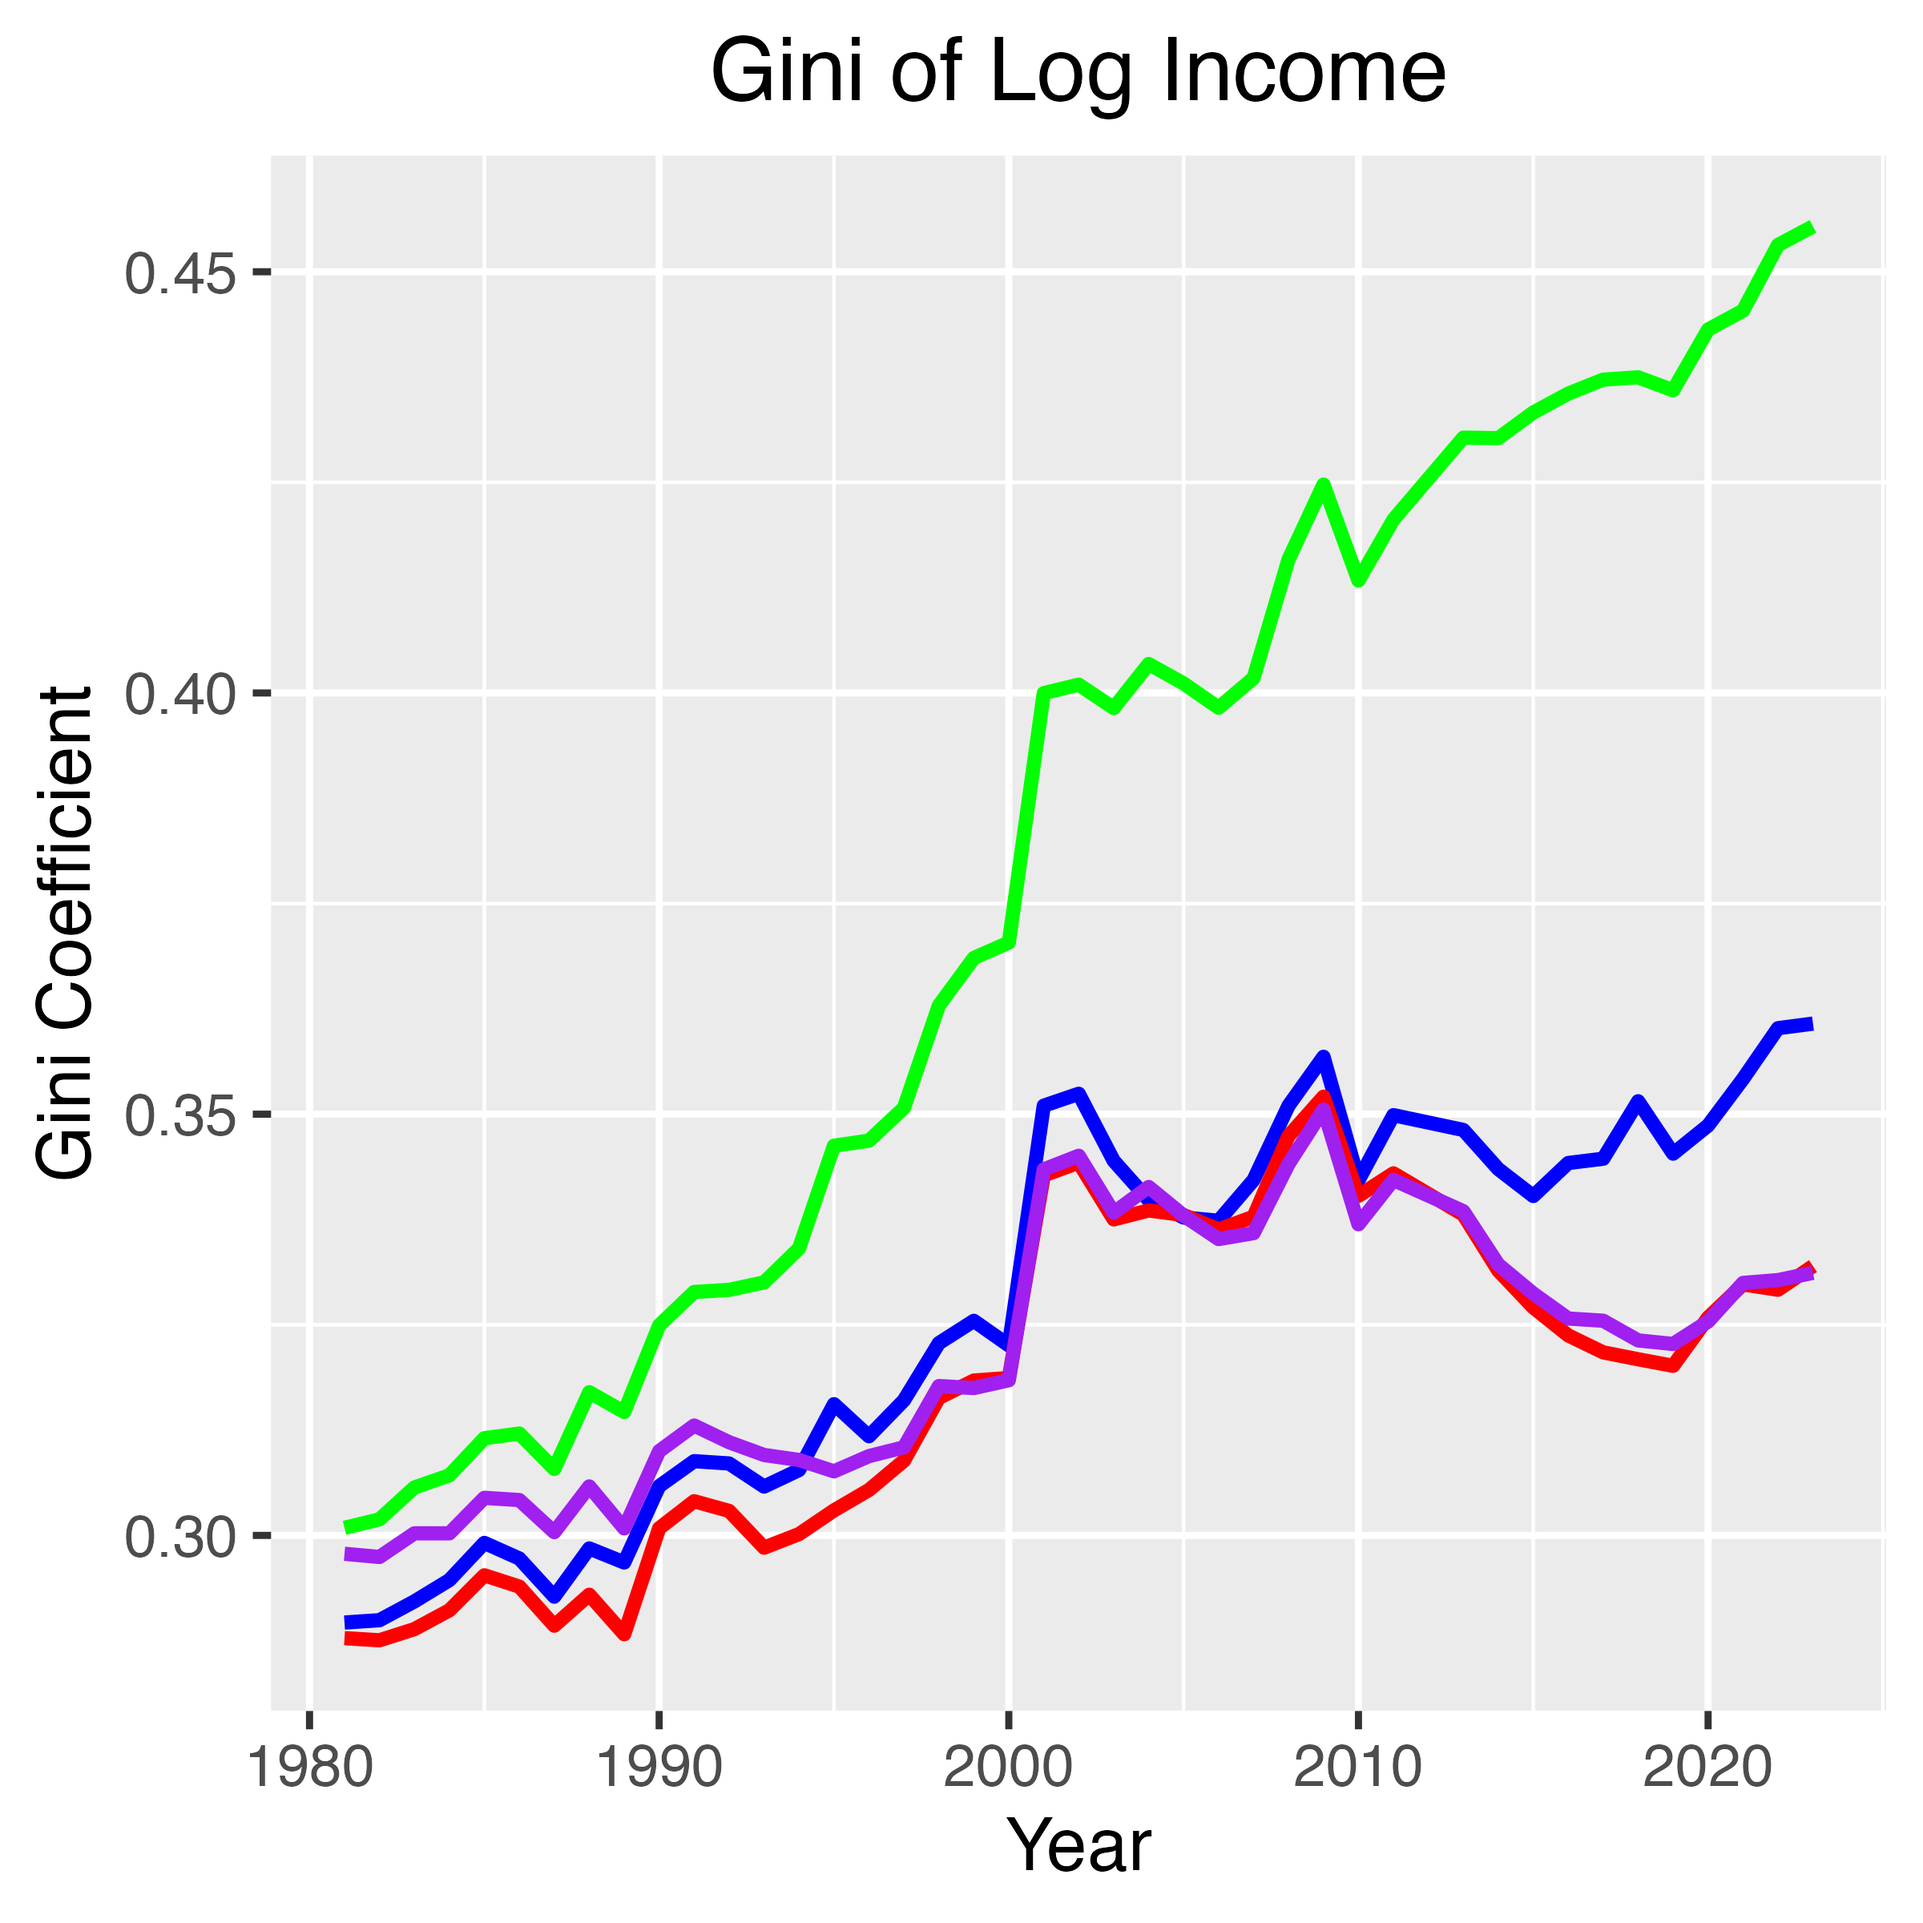
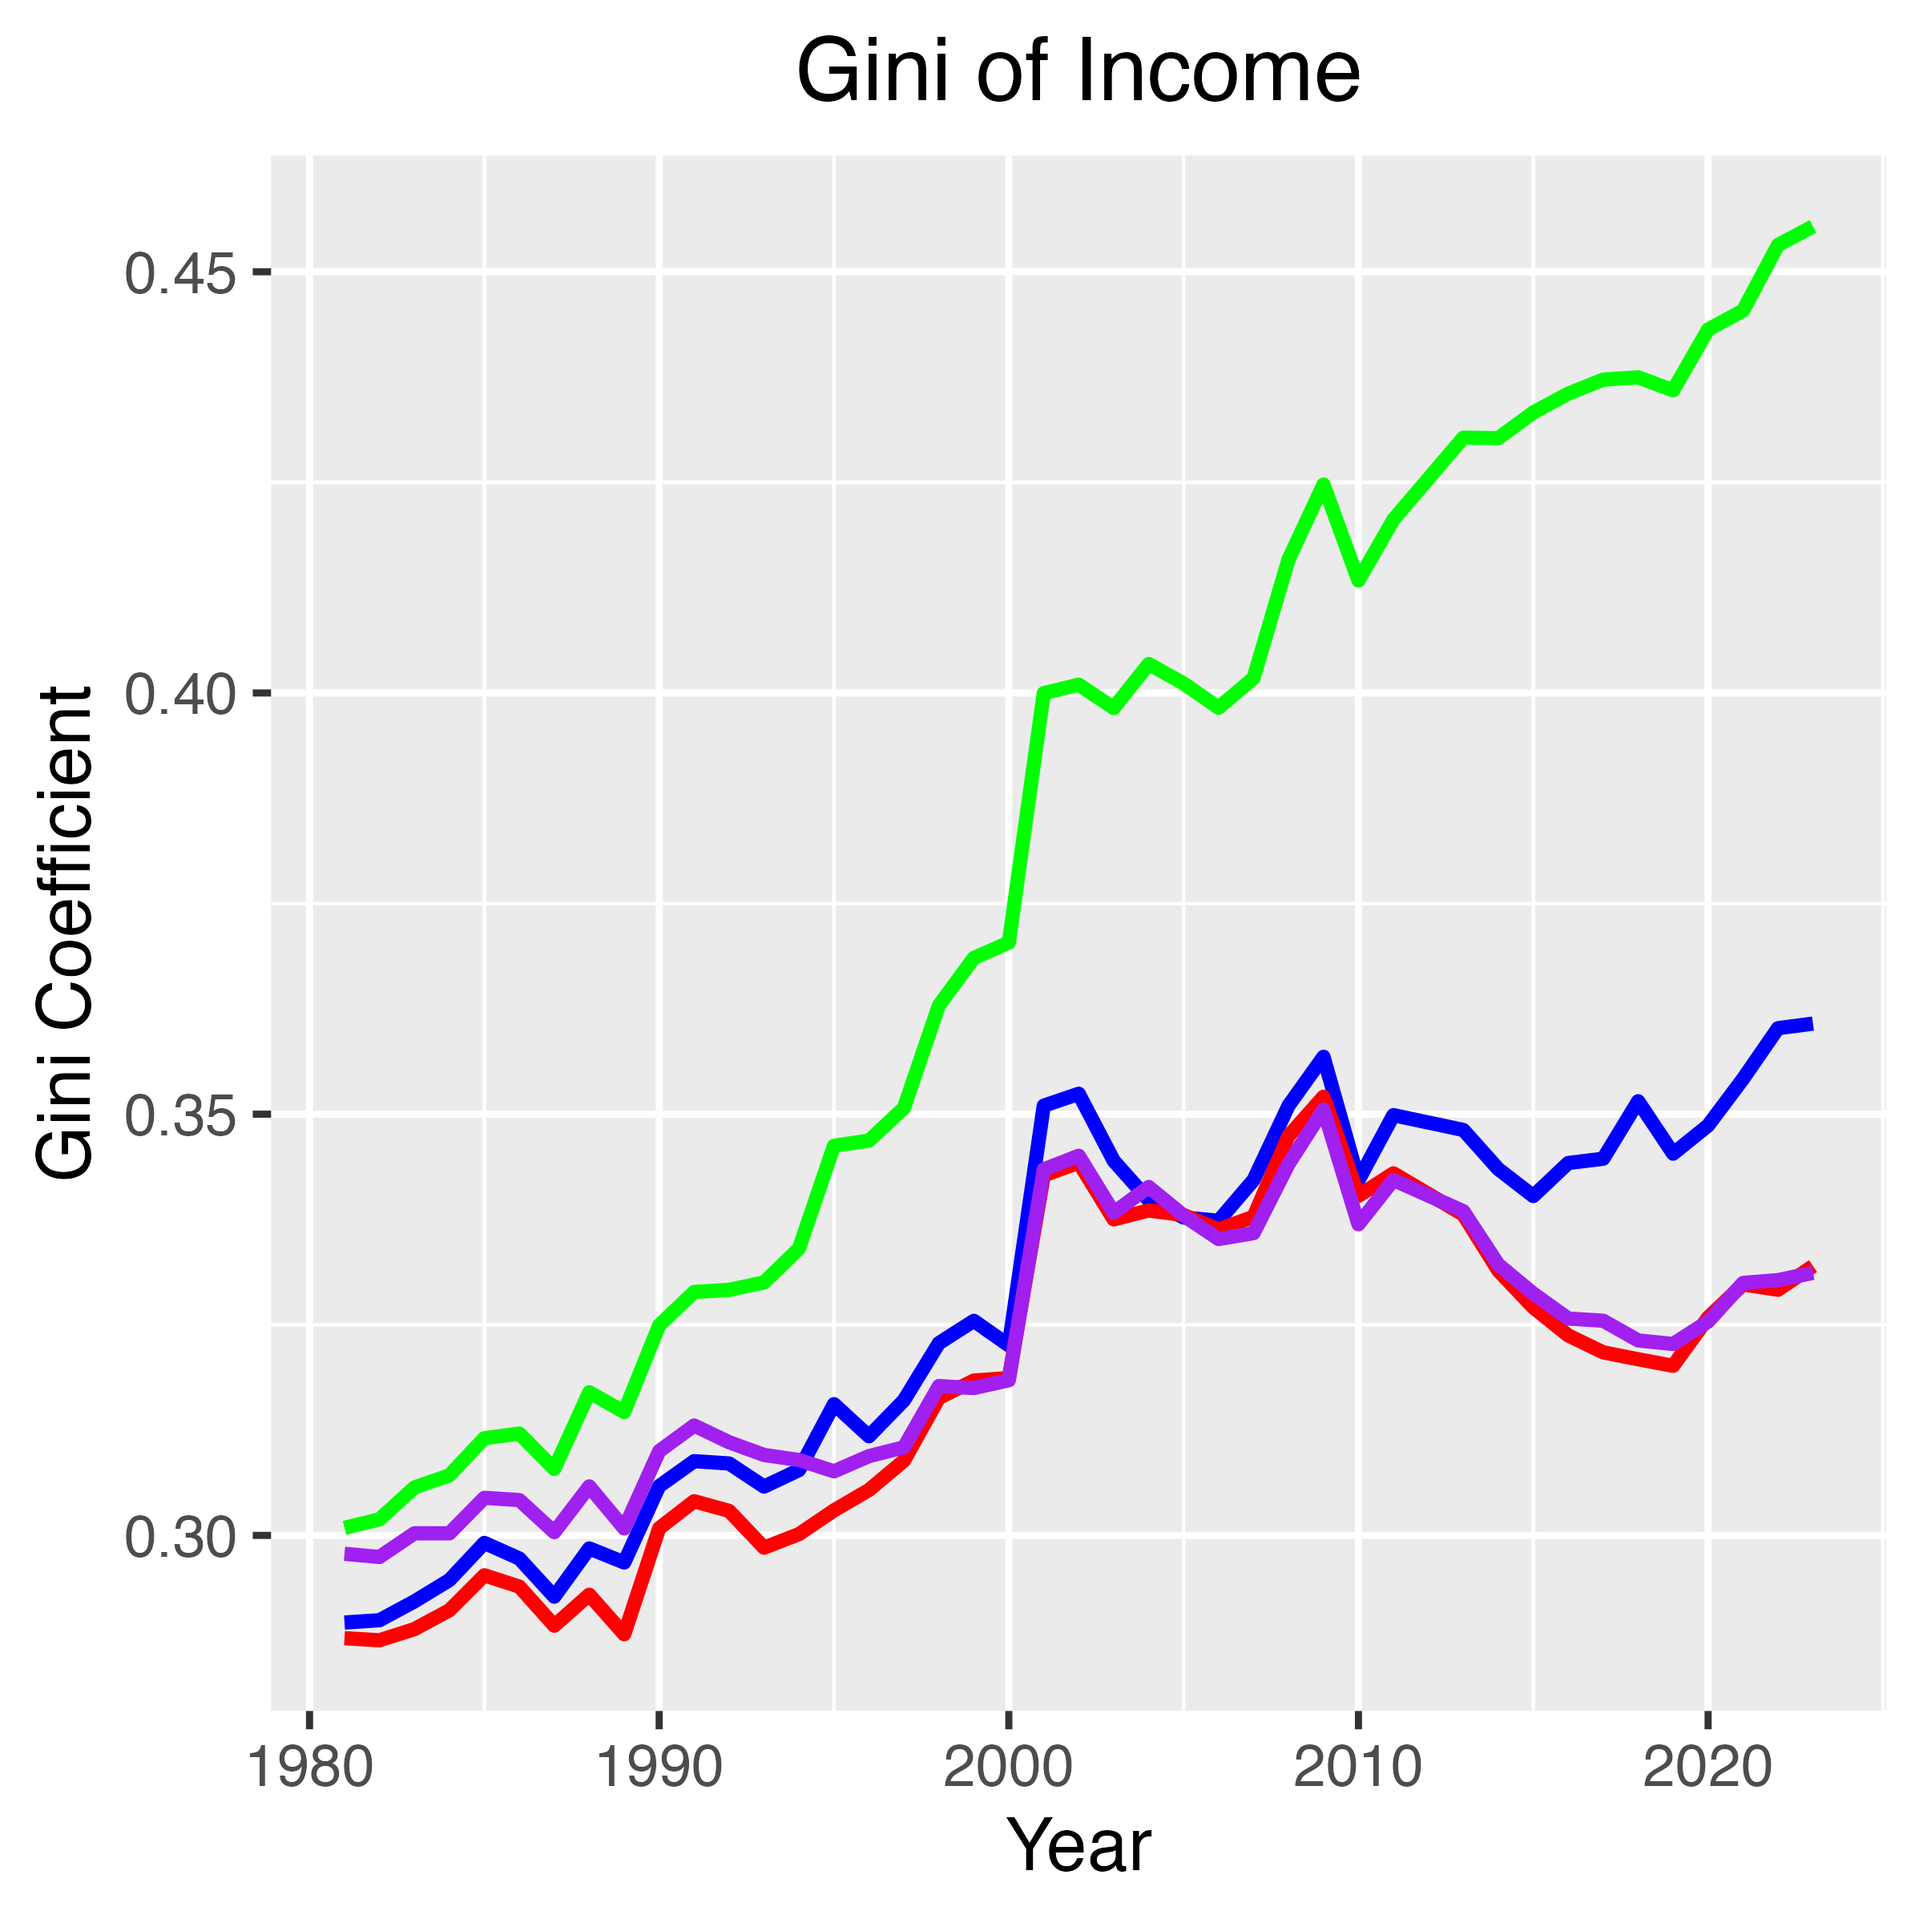
Finish consumption inequality part and fix some title

Changed region(s): [[0.375, 0.0, 0.75, 0.0625]]

diff --git a/README.md b/README.md
@@ -1,5 +1,5 @@
 # Introduction
-This my term paper "Consumption Inequality" for Labor Economics I using Survey of Family Income and Expenditure 1981 - 2023
+This is my term paper "Consumption Inequality" for Labor Economics I using Survey of Family Income and Expenditure 1981 - 2023
 
 # Reference
 <p style="padding-left: 4em; text-indent: -4em;">
